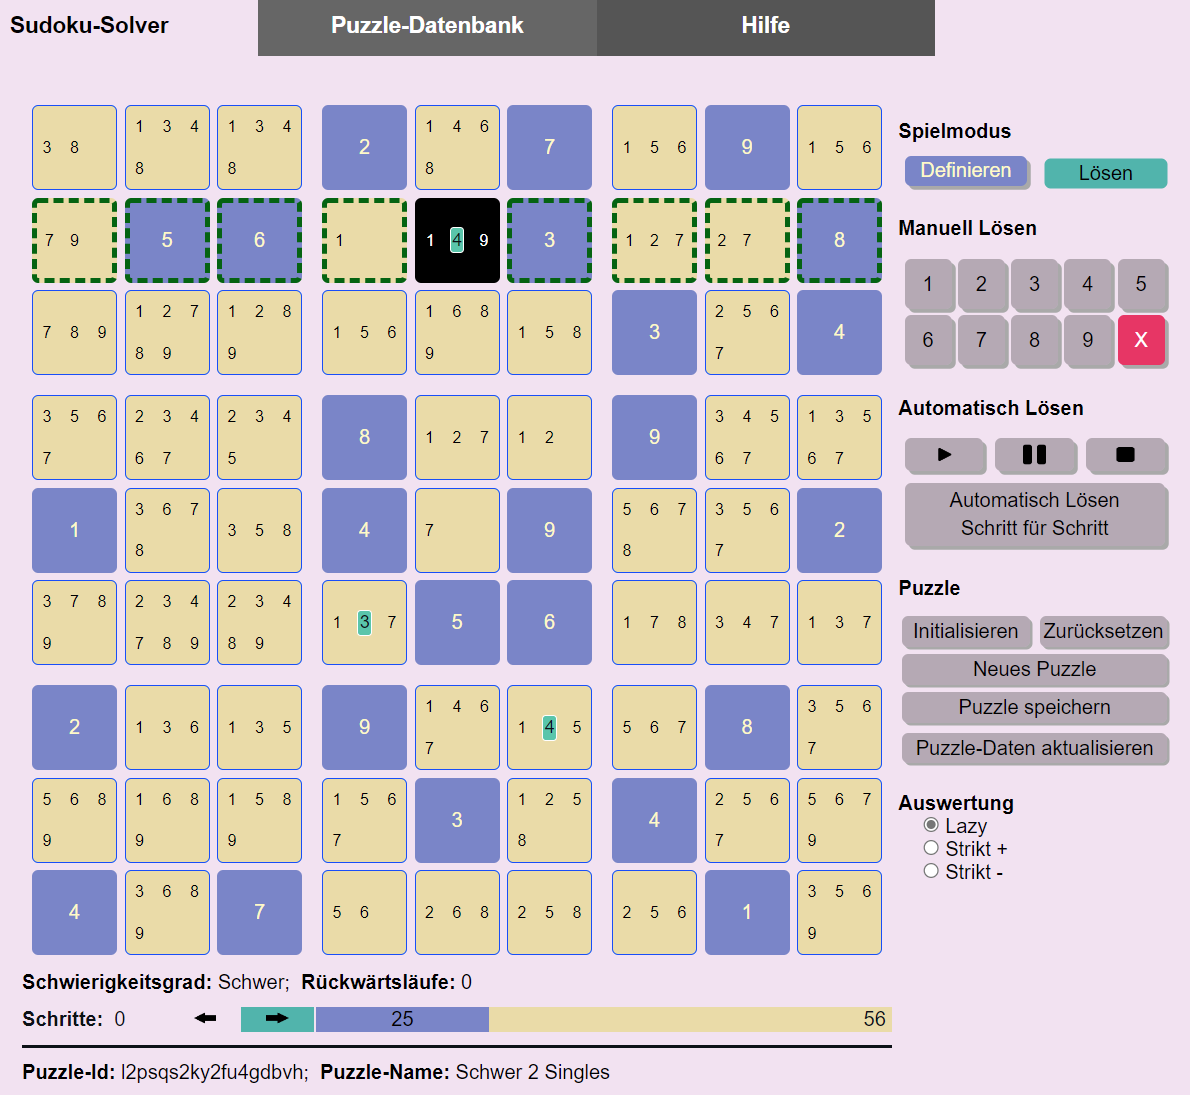
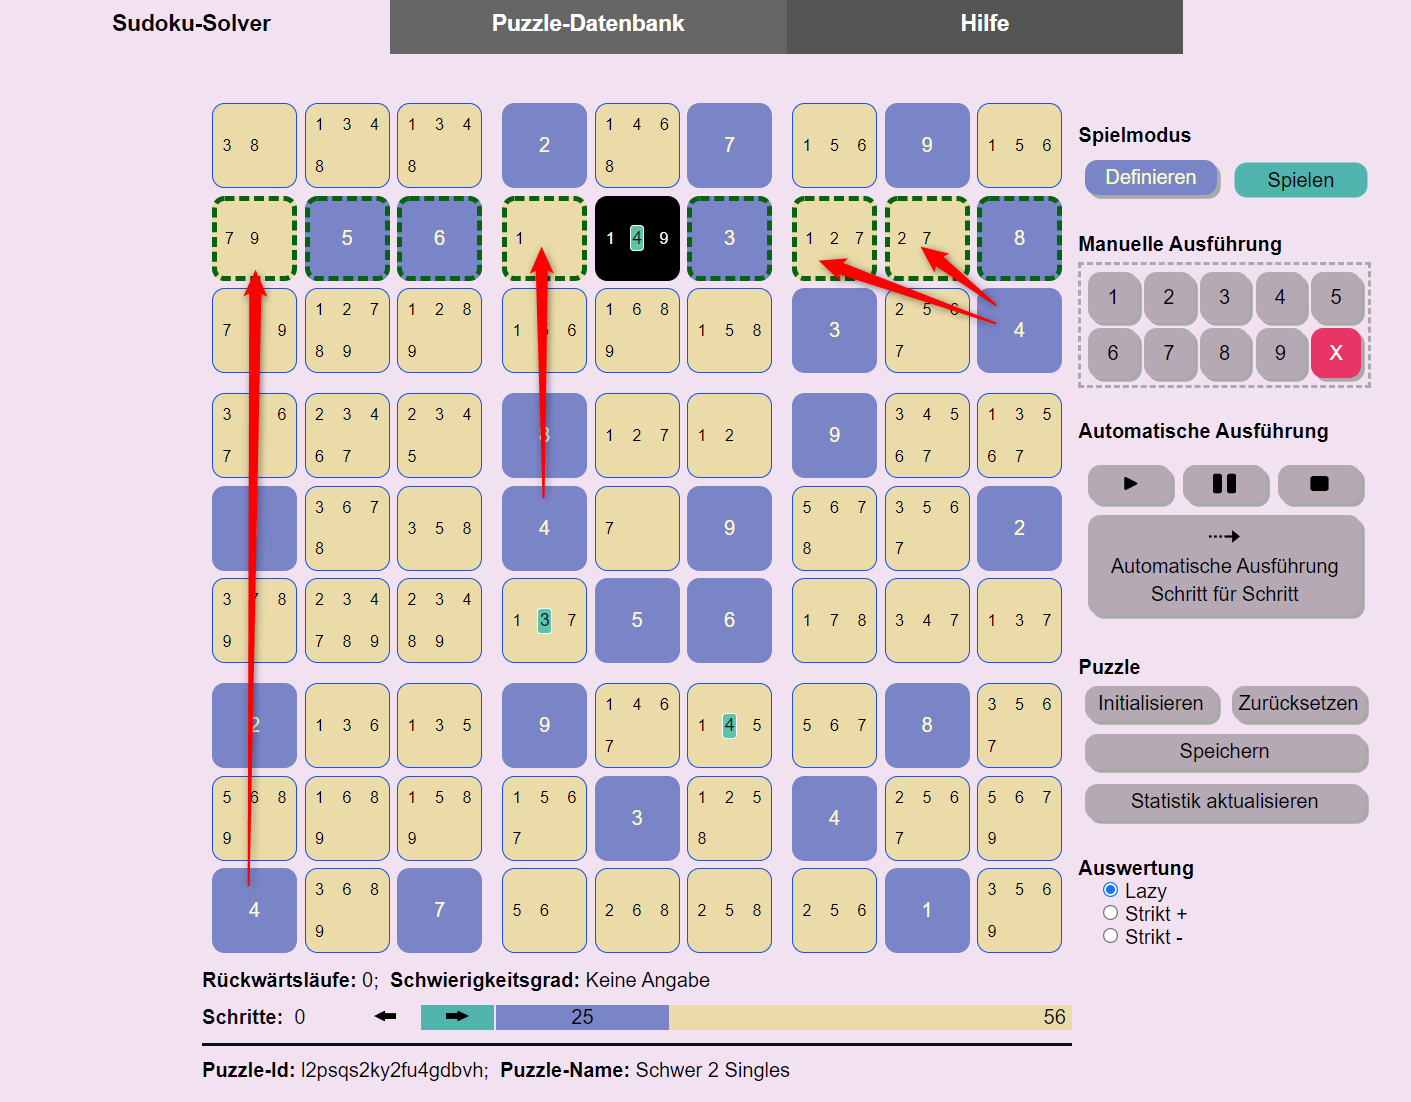
Help aktualisiert

diff --git a/help.md b/help.md
@@ -6,11 +6,13 @@ layout: default
 
 ## Ein Generator und Solver für klassisches Sudoku
 
-Wer kennt das nicht? Beim Kaffeetrinken ein Sudoku lösen. Nach jahrelanger Erfahrung ist man spürbar besser geworden. Und dann kommt ein Puzzle, manchmal sogar nur als leicht klassifiziert, und man findet partout nicht die nächste Zelle mit einer eindeutigen Nummernbelegung. Anstatt den Kaffeetisch frustriert zu verlassen, kann man die HB-Sudoku-App und den darin enthaltenen Solver nutzen. Er löst jedes Sudoku in wenigen Minuten.
+Wer kennt das nicht? Beim Kaffeetrinken ein Sudoku lösen. Nach jahrelanger Erfahrung ist man spürbar besser geworden. Und dann kommt ein Puzzle, manchmal sogar nur als leicht klassifiziert, und man findet partout nicht die nächste Zelle mit einer eindeutigen Nummernbelegung. Anstatt den Kaffeetisch frustriert zu verlassen, kann man die HB-Sudoku-App und den darin enthaltenen Solver nutzen. Er löst jedes Sudoku in wenigen Sekunden.
 
 Das tun andere Sudoku-Solver auch. Die Besonderheit des HB-Sudoku-Solvers besteht darin, dass man ihm bei der Lösungssuche zuschauen kann. Schritt für Schritt kann man beobachten und verstehen, wie der Solver zur Lösung des Sudokus gelangt. Alternativ kann man sich auch einfach nur einen nächsten möglichen Schritt zeigen lassen und dann von Hand weitermachen.
 
-Zusammen mit der Lösung bestimmt der Solver den tatsächlichen Schwierigkeitsgrad des Sudokus. Sehr schwere Sudokus, Definition siehe unten, sind manuell kaum zu lösen. Sie sollten daher kein Grund für Frust sein. Konsequenz: Mit der HB-Sudoku-App macht das Sudokulösen Spaß, auch wenn mal ein schweres Puzzle dabei ist.
+Zusammen mit der Lösung bestimmt der Solver den tatsächlichen Schwierigkeitsgrad des Sudokus. Sehr schwere Sudokus - Definition siehe unten - sind manuell kaum zu lösen. Sie sollten daher kein Grund für Frust sein. Konsequenz: Mit der HB-Sudoku-App macht das Sudokulösen Spaß, auch wenn mal ein schweres Puzzle dabei ist.
+
+Der Generator generiert faire Puzzles mit den Schwierigkeitsgraden Leicht, Mittel und Schwer. Im Gegensatz zu sehr schweren oder extrem schweren Puzzles - Definition der Schwierigkeitsgrade erfolgt weiter unten - können die generierten Puzzles allein durch logisches Schließen gelöst werden. Sie benötigen kein "Trial and Error", kein Raten und Probieren.
 
 ## App-Überblick
 
@@ -43,13 +45,13 @@ Soll eine Nummern-Setzung zurückgenommen werden, muss die betroffene Zelle sele
 |<img src="./images/auto1option.png" width="160px"/>|**Automatisch gesetzte Nummer (Nummer eindeutig):** Der Solver hat in dieser Zelle automatisch die Nummer 9 gesetzt. Und zwar in der 5. Setzung einer Nummer. Die Wahl der zu setzenden Nummer war eindeutig. D.h. Die Nummer war eine notwendige Nummer oder ein Single. Definitionen siehe weiter unten.|
 |<img src="./images/auto2option.png" width="160px"/>|**Automatisch gesetzte Nummer einer Auswahl (Erste Nummer von zwei Optionen):** Der Solver hat in dieser Zelle automatisch die Nummer 3 gesetzt. Und zwar in der 18. Setzung einer Nummer. Er musste zwischen den beiden Nummern 3 und 7 wählen. Der Solver wählt zunächst die Nummer 3. Wenn die Vervollständigung der Matrix gelingt, kommt die zweite Nummer nicht mehr zum Zuge. Gelingt die Vervollständigung nicht, kehrt der Automat zu dieser Zelle zurück und probiert die zweite Option 7. Die Option 7 wurde noch nicht probiert. Noch nicht abgearbeitete Nummern werden mit gelbem Hintergrund angezeigt.|
 |<img src="./images/auto3option.png" width="160px"/>|**Automatisch gesetzte Nummer einer Auswahl (Erste Nummer von mehr als zwei Optionen):** Der Solver hat in dieser Zelle automatisch die Nummer 2 gesetzt. Und zwar in der 11. Setzung einer Nummer. Er musste zwischen den Nummern 2, 3 und noch weiteren hier nicht sichtbaren durch den Stern repräsentierten Nummern wählen. Der Solver wählt zunächst die Nummer 2. Wenn die Vervollständigung der Matrix gelingt, kommt die zweite Nummer nicht mehr zum Zuge. Gelingt die Vervollständigung nicht, kehrt der Automat zu dieser Zelle zurück und probiert die zweite Option 3. Nach und nach werden die nicht sichtbaren Optionen angezeigt. In der Praxis kommt der Versuch einer dritten Option so gut wie überhaupt nicht vor, weil zuvor schon eine Lösung gefunden wurde.|
-|<img src="./images/auto4option.png" width="160px"/>|**Automatisch gesetzte Nummer einer Auswahl (Zweite Nummer von zwei Optionen):** Der Solver hat in dieser Zelle automatisch die Nummer 6 gesetzt. Und zwar in der 1. Setzung einer Nummer. Nach der ersten Option 3 hat er die zweite Option 6 gewählt. Jetzt sind alle Optionen dieser Zelle abgearbeitet.|
-|<img src="./images/optionCell.png" width="160px"/>|**Zulässige Nummern:** Für diese Zelle wurde noch keine Nummer gesetzt. Nur noch eine der Nummern 1, 2, 6 und 9 kann gewählt werden. Das sind die (noch) zulässigen Nummern der Zelle. Die nicht aufgeführten Nummern sind direkt unzulässig.|
-|<img src="./images/neccessary.png" width="160px"/>|**Notwendige Nummer:** Für die nebenstehende Zelle wurde noch keine Nummer gesetzt. Ohne direkten Konflikt sind noch die drei Nummern 1, 2 und 6 setzbar. Jedoch hat der Solver ermittelt, dass die Nummer 2 notwendig ist, damit das Sudoku lösbar bleibt. 2 ist eine notwendige Nummer für diese Zelle. Eine Nummer in einer Zelle ist notwendig, wenn die Nummer in ihrer Gruppe, Zeile oder Spalte einzig ist. D.h. sie kommt in der betreffenden Gruppe, Zeile oder Spalte nur genau einmal vor.|
-|<img src="./images/indirect.png" width="160px"/>|**Indirekt unzulässige Nummer:** Für die nebenstehende Zelle wurde noch keine Nummer gesetzt. Zulässige Nummern dieser Zelle sind die drei Nummern 3, 6 und 7.Jedoch hat der Solver ermittelt, dass die 7 indirekt unzulässig ist. Wenn man sie setzen würde, würde der Solver einige Schritte später die Widersprüchlichkeit des Puzzles feststellen. Zur Definition der indirekten Unzulässigkeit siehe den entsprechenden Abschnitt dieser Hilfe.|
+|<img src="./images/auto4option.png" width="160px"/>|**Automatisch gesetzte Nummer einer Auswahl (Zweite Nummer von zwei Optionen):** Der Solver hat in dieser Zelle automatisch die Nummer 6 gesetzt. Und zwar in der 1. Setzung einer Nummer. Nachdem die erste Option 3 nicht zum Erfolg geführt hat, hat er die zweite Option 6 gewählt. Jetzt sind alle Optionen dieser Zelle abgearbeitet.|
+|<img src="./images/optionCell.png" width="160px"/>|**Zulässige Nummern:** Für diese Zelle wurde noch keine Nummer gesetzt. Nur noch eine der Nummern 1, 2, 6 und 9 kann gewählt werden. Das sind die (noch) zulässigen Nummern der Zelle. Die nicht aufgeführten Nummern sind direkt unzulässig, weil sie bereits in einer anderen Zelle der Gruppe, Zeile oder Spalte gesetzt sind.|
+|<img src="./images/neccessary.png" width="160px"/>|**Notwendige Nummer:** Für die nebenstehende Zelle wurde noch keine Nummer gesetzt. Noch zulässig sind die drei Nummern 1, 2 und 6. Jedoch hat der Solver ermittelt, dass die Nummer 2 notwendig ist, damit das Sudoku lösbar bleibt. 2 ist eine notwendige Nummer für diese Zelle. Eine Nummer in einer Zelle ist notwendig, wenn die Nummer in ihrer Gruppe, Zeile oder Spalte einzig ist. D.h. sie kann nur noch hier gesetzt werden.|
+|<img src="./images/indirect.png" width="160px"/>|**Indirekt unzulässige Nummer:** Für die nebenstehende Zelle wurde noch keine Nummer gesetzt. Zulässige Nummern dieser Zelle sind die drei Nummern 3, 6 und 7.Jedoch hat der Solver ermittelt, dass die 7 indirekt unzulässig ist. Wenn man sie setzen würde, würde der Solver sofort oder einige Schritte später die Widersprüchlichkeit des Puzzles feststellen. Zur Definition der indirekten Unzulässigkeit siehe den entsprechenden Abschnitt dieser Hilfe.|
 |<img src="./images/direkterSingle.png" width="160px"/> <img src="./images/indirekterSingle.png" width="160px"/>| **Singles:** Eine Single-Nummer ist eine zulässige Nummer in einer Zelle, wenn es keine weiteren zulässigen Nummern in der Zelle gibt. Im nebenstehenden Beispiel sind die 5 und die 6 Singles. Die 5 bezeichnen wir auch als **direktes Single**, weil zu seiner Bestimmung nicht auf indirekt unzulässige Nummern zurückgegriffen werden muss. Im Gegensatz dazu ist die 6 ein **indirektes Single**. Die 6 ist in dieser Zelle ein Single, weil die rote 1 und 3 indirekt unzulässig sind.|
 |<img src="./images/nochoice.png" width="160px"/>|**Widerspruch - Leere Option:** Für diese Zelle wurde noch keine Nummer gesetzt. Allerdings gibt es keine zulässige Nummer mehr, die noch gesetzt werden könnte. D.h. das Sudoku ist widersprüchlich. Wenn das Sudoku noch erfolgreich gelöst werden soll, müssen ein oder mehrere der bisherigen Nummernsetzungen zurückgenommen werden. Tritt während der automatischen Ausführung eine solche Zelle auf, schaltet der Solver in den Rückwärts-Modus um.|
-|<img src="./images/twoNeccessary.png" width="160px"/>|**Widerspruch - zwei notwendige Nummern:** Für diese Zelle wurde noch keine Nummer gesetzt. Ohne direkten Konflikt sind noch die Nummern 1, 2, 3, 4, 5 und 6 setzbar. Jedoch hat der Solver zwei verschiedene notwendige Nummern für diese Zelle ermittelt: 1 und 2. Das geht natürlich nicht. Es können in einer Zelle nicht zwei Nummern gleichzeitig gesetzt werden. D.h. das Sudoku ist widersprüchlich. Wenn das Sudoku noch erfolgreich gelöst werden soll, müssen ein oder mehrere der bisherigen Nummernsetzungen zurückgenommen werden. Tritt während der automatischen Ausführung eine solche Zelle auf, schaltet der Solver in den Rückwärts-Modus um.|
+|<img src="./images/twoNeccessary.png" width="160px"/>|**Widerspruch - zwei notwendige Nummern:** Für diese Zelle wurde noch keine Nummer gesetzt. Zulässige Nummern sind 1, 2, 3, 4, 5 und 6. Jedoch hat der Solver zwei verschiedene notwendige Nummern für diese Zelle ermittelt: 1 und 2. Das geht natürlich nicht. Es können in einer Zelle nicht zwei Nummern gleichzeitig gesetzt werden. D.h. das Sudoku ist widersprüchlich. Wenn das Sudoku noch erfolgreich gelöst werden soll, müssen ein oder mehrere der bisherigen Nummernsetzungen zurückgenommen werden. Tritt während der automatischen Ausführung eine solche Zelle auf, schaltet der Solver in den Rückwärts-Modus um.|
 |<img src="./images/conflct.png" width="160px"/>|**Widerspruch - Direkt unzulässige Nummer:** Für diese Zelle wurde die Nummer 8 gesetzt. Diese Nummer ist direkt unzulässig, weil in der Spalte, Reihe oder Zellgruppe dieser Zelle bereits eine 8 gesetzt ist. Das zweite oder dritte Auftreten der Nummer wird ebenfalls rot unterlegt angezeigt.|
 
 ### Zwei Phasen
@@ -72,14 +74,14 @@ Die manuelle Ausführung wird in jedem Fall in der Definitionsphase genutzt. In 
 |**Start**|Der Solver startet den automatischen Lösungssuchprozess. Zusätzlich wird ein Timer gestartet, der in der eingestellten Geschwindigkeit die Ausführung automatischer Suchschritte anstößt.|
 |**Pause**|Der Taktgeber der automatischen Ausführung wird angehalten, nicht jedoch der Suchprozess abgebrochen. Der Spieler kann jetzt weitere automatische Suchschritte mit der Schritt-Taste von Hand anstoßen. Oder er kann durch das erneute Drücken der Start-Taste die getaktete automatische Ausführung fortsetzen.|
 |**Stop**|Der Taktgeber der automatischen Ausführung wird angehalten und der aktuelle Suchprozess wird abgebrochen.|
-|**Schritt**|Der Solver führt den nächsten automatischen Suchschritt aus. Falls noch nicht geschehen, startet er zuvor den Suchprozess überhaupt. Mit dieser Taste kann man den Solver Schritt für Schritt arbeiten lassen und so jeden einzelnen seiner Schritte verstehen.|
+|**Schritt**|Der Solver führt den nächsten automatischen Suchschritt aus. Falls noch nicht geschehen, startet er zuvor den Suchprozess überhaupt. Mit dieser Taste kann man den Solver Schritt für Schritt arbeiten lassen und so jeden einzelnen seiner Schritte beobachten und verstehen.|
 
 ### Puzzle-Operationen
 
 |Taste  |Bedeutung  |
 |---------|---------|
 |**Initialisieren**|Durch das Drücken dieser Taste wird das aktuelle Puzzle des Solvers initialisiert. Danach ist die Sudoku-Tabelle leer.|
-|**Zurücksetzen**|Mittels dieser Taste wird das Puzzle des Solvers zurückgesetzt auf die Aufgabenstellung. D.h. alle in der Lösungsphase gesetzten Zellen werden gelöscht. Die Zellen der Definitionsphase bleiben erhalten.|
+|**Zurücksetzen**|Mittels dieser Taste wird das Puzzle des Solvers zurückgesetzt auf die Aufgabenstellung. D.h. alle in der Lösungsphase gesetzten Zellen, die grünen Zellen, werden gelöscht. Die Zellen der Definitionsphase, die blauen Zellen, bleiben erhalten.|
 |**Neues Puzzle**|Mittels dieser Taste kann ein neues Puzzle generiert werden.|
 |**Puzzle speichern**|Mittels dieser Taste kann das aktuelle Puzzle in der Datenbank gespeichert werden.|
 |**Puzzle-Daten aktualisieren**|Mittels dieser Taste kann für ein aus der Datenbank geladenes Puzzle das neue Ausführungsergebnis gespeichert werden. Falls das aktuelle Puzzle nicht aus der Datenbank geladen wurde, wird der Speicherdialog angestoßen.|
@@ -93,17 +95,17 @@ Für eine noch nicht belegte Zelle der Sudoku-Matrix unterscheiden wir zulässig
 ### Notwendige Nummern
 
 ![Lazy notwendig](./images/lazynotwendig.png)
-Eine zulässige Nummer in einer Zelle ist notwendig, wenn die Nummer in ihrer Gruppe, Zeile oder Spalte einzig ist. D.h. sie kommt in der betreffenden Gruppe, Zeile oder Spalte nur genau einmal vor. Im Bild ist die grüne 4 notwendig, weil sie in ihrer Zeile kein weiteres mal zulässig ist. Im Lazy-Auswertungsmodus zeigt der Solver die die Notwendigkeit verursachende Gruppe, Spalte oder Zeile an, wenn man die Zelle mit der notwendigen Nummer selektiert.
+Eine zulässige Nummer in einer Zelle ist notwendig, wenn die Nummer in ihrer Gruppe, Zeile oder Spalte einzig ist. D.h. sie kann nur hier gesetzt werden. Im Bild ist die grüne 4 notwendig, weil sie in ihrer Zeile kein weiteres mal zulässig ist. Im Lazy-Auswertungsmodus zeigt der Solver die die Notwendigkeit verursachende Gruppe, Spalte oder Zeile an, wenn man die Zelle mit der notwendigen Nummer selektiert hat. Die roten Pfeile zeigen für jede offene Zelle der Zeile, warum in ihnen die 4 unzulässig ist.
 
 ### Indirekt unzulässige Nummern
 
 Direkt unzulässige Nummern sind Nummern, die in einer Gruppe, Spalte oder Zeile bereits einmal existieren. In einer ungesetzten Zelle werden die direkt unzulässigen Nummern nicht angezeigt. Anders dagegen Indirekt unzulässige Nummern. Indirekt unzulässige Nummern werden rot angezeigt. Wann ist eine Nummer indirekt unzulässig? Der vorliegende Solver kennt drei unterschiedliche Gründe.
 
-1. **Indirekt unzulässig wegen einer notwendigen Nummer:** Eine Nummer ist indirekt unzulässig wegen einer notwendigen Nummer, wenn sie in ihrer Spalte, Reihe oder Gruppe auch als notwendige Nummer auftritt. Im nachfolgenden Beispiel sind die roten Nummern 8 wegen der grünen 8 indirekt unzulässig. Die grüne 8 ist notwendig, weil sie in ihrer Spalte einzig ist, also in der Spalte kein weiteres mal zulässig ist.![Indirekt wegen notwendig](./images/indirektwgnotwendig.png)
+1. **Indirekt unzulässig wegen einer notwendigen Nummer:** Eine Nummer ist indirekt unzulässig wegen einer notwendigen Nummer, wenn sie in ihrer Spalte, Reihe oder Gruppe auch als notwendige Nummer auftritt. Im nachfolgenden Beispiel sind die roten Nummern 8 wegen der grünen 8 indirekt unzulässig. Die grüne 8 ist notwendig, weil sie in ihrer Gruppe einzig ist, also in der Gruppe kein weiteres mal zulässig ist.![Indirekt wegen notwendig](./images/indirektwgnotwendig.png)
 
-1. **Indirekt unzulässig wegen einer Single-Nummer:** Eine Nummer ist indirekt unzulässig wegen einer Single-Nummer, wenn sie in ihrer Spalte, Reihe oder Gruppe ein zweites mal auftreten würde.
+1. **Indirekt unzulässig wegen einer Single-Nummer:** Eine Nummer ist indirekt unzulässig wegen einer Single-Nummer, wenn sie in der Spalte, Reihe oder Gruppe der Single-Nummer ein zweites mal auftreten würde.
 
-1. **Indirekt unzulässig wegen Pairing:** Eine Nummer ist indirekt unzulässig, wenn es in einer Gruppe, Zeile oder Spalte Paare gibt und Nummern dieser Paare zusätzlich in weiteren Zellen dieser Gruppe, Spalte oder Zeile auftauchen. Im nachfolgenden Beispiel ist das 4-6-Paar ein kritisches Paar. Das 4-6-Paar macht in seiner Gruppe alle 4 und 6 indirekt unzulässig. Der Grund: Das Paar bedeutet, dass die 4 und die 6 auf jeden Fall in einer der beiden Zellen des Paares gesetzt werden muss. Aktuell steht nur noch nicht fest, ob die 6 oder die 4 oben ist. Fest steht aber jetzt schon, dass in den übrigen Zellen der Gruppe keine 4 oder 6 mehr vorkommen können. Die 4 und 6 sind hier indirekt unzulässig. Diese Gruppendarstellung mit den gestrichelten Kanten zeigt der Solver nur im Lazy-Auswertungsmodus, wenn man eine Zelle mit indirekt unzulässigen Nummern selektiert. Der Solver selektiert die Zelle mit der 5 als einzig zulässige Nummer. ![Indirekt unzulässig](./images/indirektWegenPairing.png)
+1. **Indirekt unzulässig wegen Pairing:** Eine Nummer ist indirekt unzulässig, wenn es in einer Gruppe, Zeile oder Spalte Paare gibt und Nummern dieser Paare zusätzlich in weiteren Zellen dieser Gruppe, Spalte oder Zeile auftauchen. Im nachfolgenden Beispiel ist das 4-6-Paar ein kritisches Paar. Das 4-6-Paar macht in seiner Gruppe alle 4 und 6 indirekt unzulässig. Der Grund: Das Paar bedeutet, dass die 4 und die 6 auf jeden Fall in einer der beiden Zellen des Paares gesetzt werden muss. Aktuell steht nur noch nicht fest, ob die 6 oder die 4 oben ist. Fest steht aber jetzt schon, dass in den übrigen Zellen der Gruppe keine 4 oder 6 mehr vorkommen können. Die 4 und 6 sind hier indirekt unzulässig. Diese Gruppendarstellung mit den gestrichelten Kanten zeigt der Solver nur im Lazy-Auswertungsmodus, wenn man eine Zelle mit indirekt unzulässigen Nummern selektiert hat.![Indirekt unzulässig](./images/indirektWegenPairing.png)
 
 ### Auswertungsmethoden
 
@@ -177,7 +179,7 @@ Widerspruch - Dieselbe notwendige Nummer zweimal:
 
 ### Vorwärts und Rückwärts
 
-Der Solver zeigt an, wie er im Suchprozess vorwärts und rückwärts geht. Im Fachjargon: Der Solver realisiert einen Back-Tracking-Algorithmus. Rückwärts muss er gehen, wenn die aktuell gesetzte Nummer zur Widersprüchlichkeit des Sudokus führt. Rückwärtsgehen bedeutet, dass der Solver der Reihe nach zuvor gesetzte Nummern wieder zurücknimmt, bis er auf eine Zelle trifft, in der er mehrere zulässigen Nummern zur Auswahl hatte. Er wählt dann die nächste noch nicht probierte Zahl der Auswahl und geht wieder in den Vorwärts-Modus. Sind alle zulässigen Nummern durchprobiert, geht er weiter rückwärts. Wenn er im Rückwärtsgehen bei der ersten gesetzten Zelle ankommt, hat das Sudoku keine Lösung.
+Der Solver zeigt an, wie er im Suchprozess vorwärts und rückwärts geht. Im Fachjargon: Der Solver realisiert einen Back-Tracking-Algorithmus. Rückwärts muss er gehen, wenn die aktuell gesetzte Nummer zur Widersprüchlichkeit des Sudokus führt. Rückwärtsgehen bedeutet, dass der Solver der Reihe nach zuvor gesetzte Nummern wieder zurücknimmt, bis er auf eine Zelle trifft, in der er mehrere zulässigen Nummern zur Auswahl hatte. Er wählt dann die nächste noch nicht probierte Zahl der Auswahl und geht wieder in den Vorwärts-Modus. Sind alle zulässigen Nummern durchprobiert, geht er weiter rückwärts. Wenn er im Rückwärtsgehen bei der ersten gesetzten Zelle ankommt, und die erste Zelle keine weitere unprobierte Nummer mehr hat, hat das Sudoku keine Lösung.
 
 Der Solver zeigt die Anzahl der zurückgelegten Schritte an. Jedes Setzen einer Zelle sowie die Rücknahme einer Setzung erhöht den Zähler um 1. Ebenso zeigt der Solver die Anzahl der Rückwärtsläufe an.
 
@@ -259,6 +261,8 @@ Beim Abspeichern kann dem Puzzle ein Name gegeben werden. Automatisch erhält es
 
 ## Die Smartphone Version der App
 
-Auf dem Smartphone ist der Solver als Web-Anwendung verfügbar. Also in einem Browser die URL eingeben. Die Funktionalität ist bis auf die Puzzle-Datenbank identisch.
+![Smartphone](./images/SmartphoneVersion.png)
+
+Auf dem Smartphone ist der Solver/Generator als Web-Anwendung verfügbar. Also in einem Browser die URL eingeben. Die Funktionalität ist bis auf die Puzzle-Datenbank identisch.
 
 In der Smartphone-Version kann das aktuelle Puzzle gespeichert werden. Dabei wird ein eventuell schon vorher gespeichertes Puzzle überschrieben. Es kann also nur ein Puzzle gespeichert werden. Dies ermöglicht die Speicherung eines aktuellen Puzzles, um es vielleicht später analysieren zu können.
